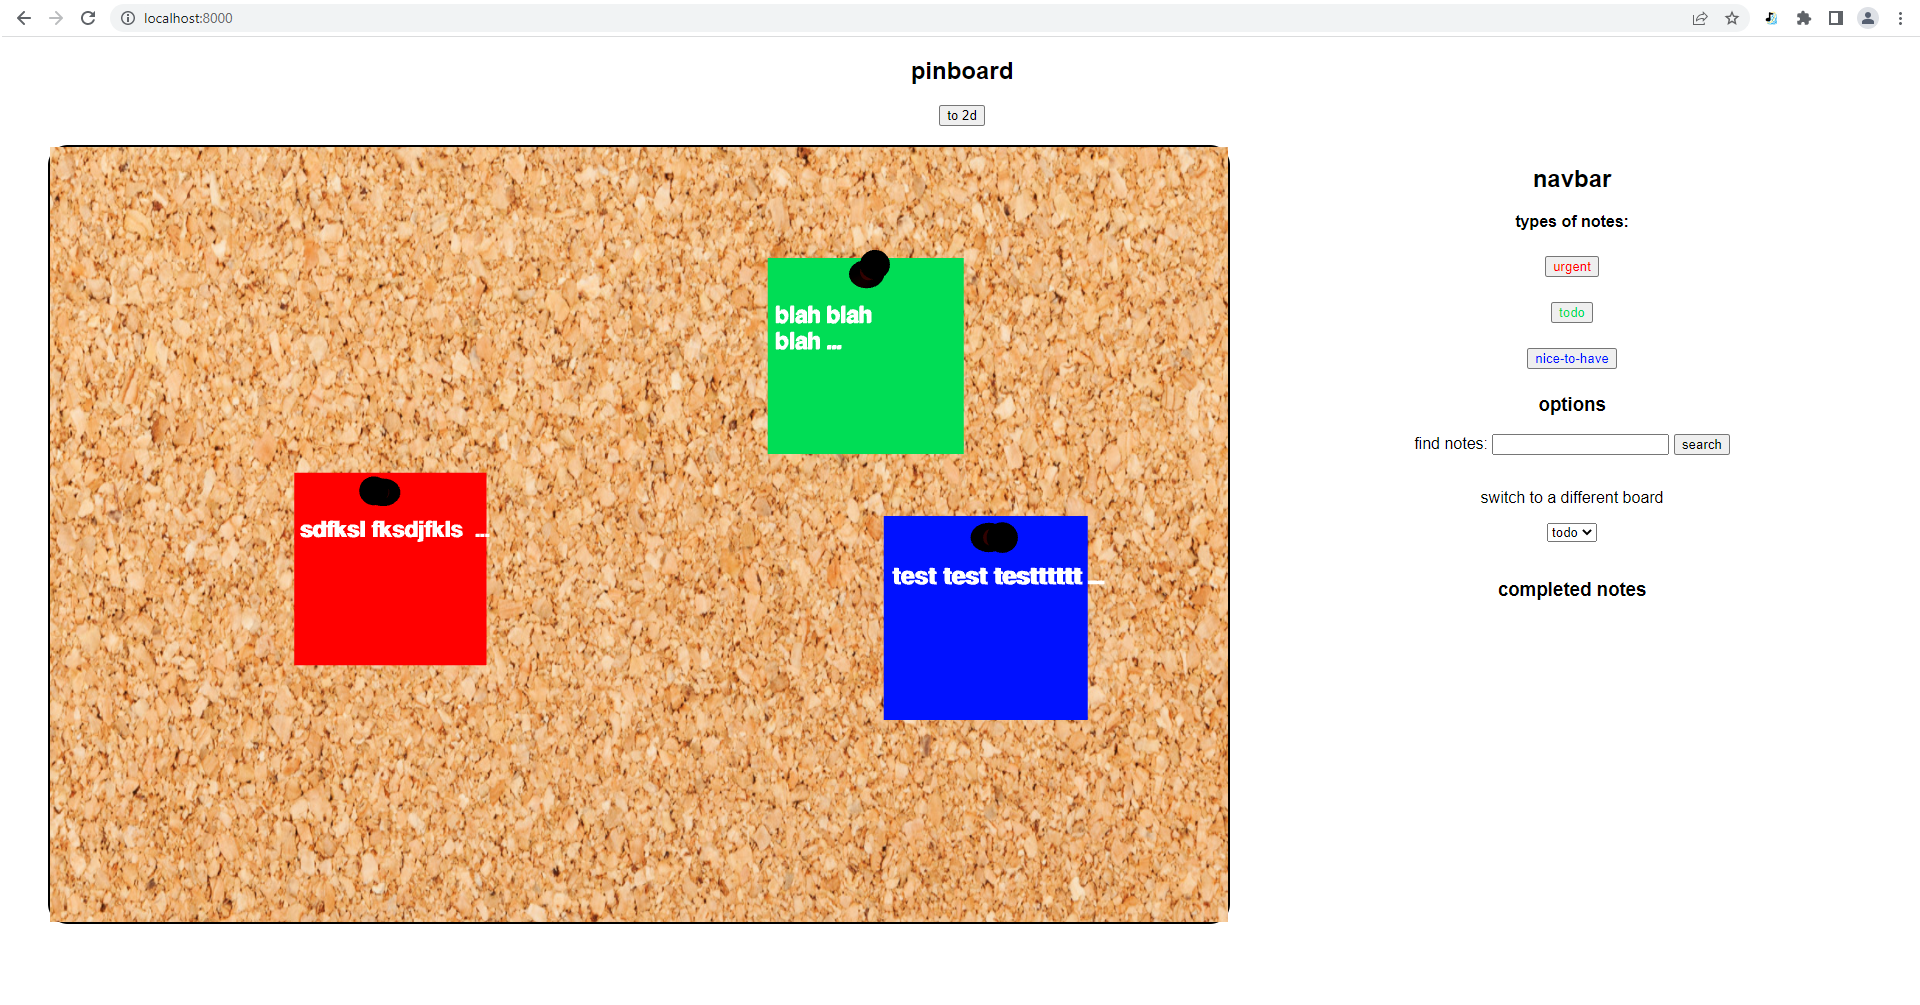
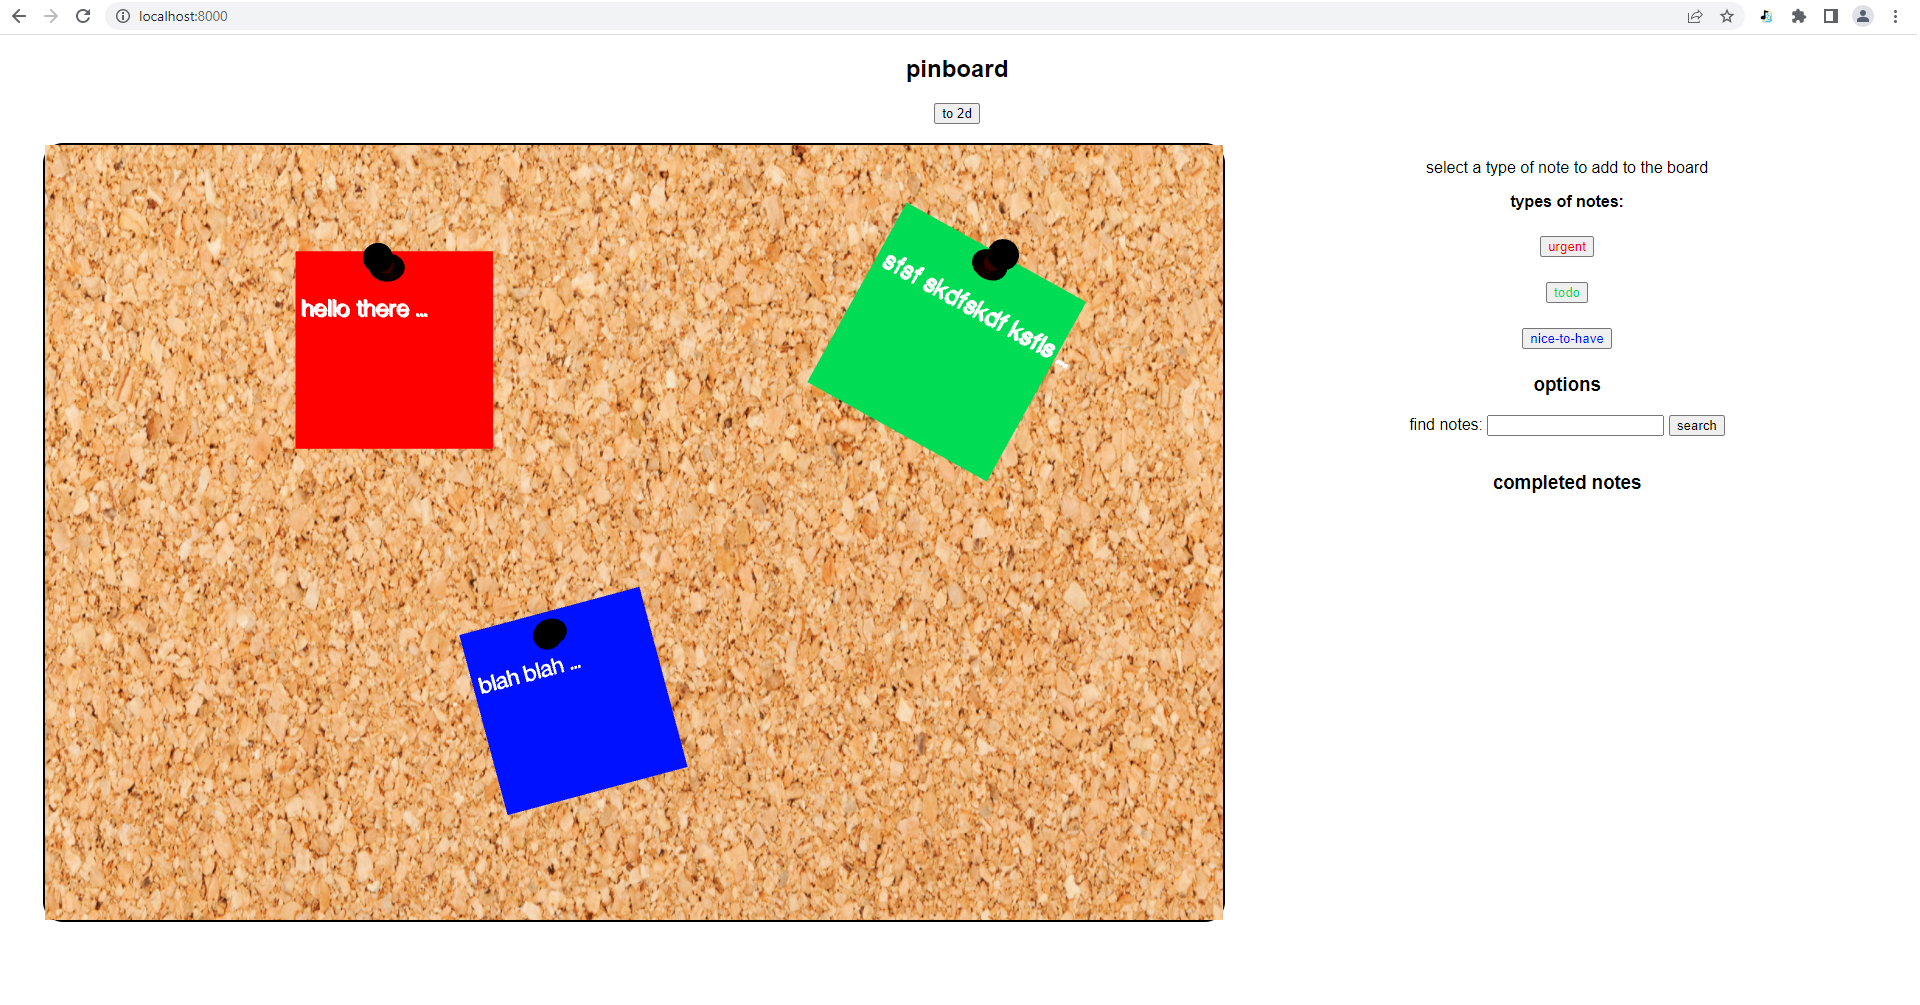
more edits

diff --git a/index.html b/index.html
@@ -9,7 +9,7 @@
     <script src='GLTFLoader.js'></script>
     <style>
         body {
-            font-family: sans-serif; Arial;
+            font-family: 'Helvetica', 'sans-serif', Arial;
         }
     
         header, nav {
@@ -97,7 +97,8 @@
     </div>
     
     <nav>
-        <h2> navbar </h2>
+        <!-- <h2> navbar </h2> -->
+        <p> select a type of note to add to the board </p>
         <p class="title"> types of notes: </p>
         <ul>
             <li><button class="urgent" onclick="selectNote(event)"> urgent </button></li>
@@ -112,6 +113,7 @@
         <br />
         <br />
         
+        <!-- TODO?
         <p> switch to a different board </p>
         <select>
             <option> todo </option>
@@ -119,6 +121,7 @@
         
         <br />
         <br />
+        -->
         
         <div class="completed">
             <h3> completed notes </h3>
@@ -335,7 +338,7 @@ function setup3dBoard(){
 
 getModel('thumbtack.gltf').then((model) => {
     thumbtackModel = model;
-    fontLoader.load("helvetiker_bold.typeface.json", (tex) => {
+    fontLoader.load("helvetiker_regular.typeface.json", (tex) => {
         noteManager.textFont = tex;
         setup3dBoard();
     });
